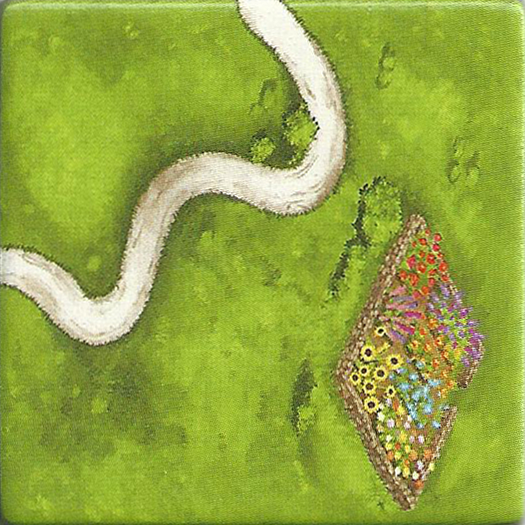
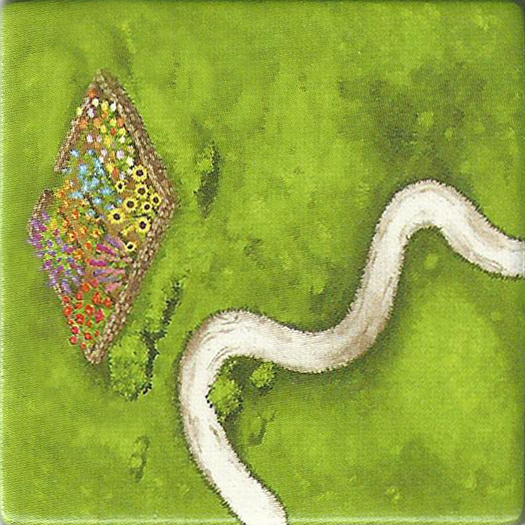
Altered tile images to align gardens

diff --git a/src/TileFactory.java b/src/TileFactory.java
@@ -664,8 +664,8 @@ public class TileFactory {
         try {
             BufferedImage image = ImageIO.read(new File("images/42.png"));
             HashMap<GlobalVariables.Direction, GlobalVariables.Feature> features = new HashMap<GlobalVariables.Direction, GlobalVariables.Feature>();
-            features.put(GlobalVariables.Direction.NORTH, GlobalVariables.Feature.GRASS);
-            features.put(GlobalVariables.Direction.EAST, GlobalVariables.Feature.CITY);
+            features.put(GlobalVariables.Direction.NORTH, GlobalVariables.Feature.CITY);
+            features.put(GlobalVariables.Direction.EAST, GlobalVariables.Feature.GRASS);
             features.put(GlobalVariables.Direction.WEST, GlobalVariables.Feature.GRASS);
             features.put(GlobalVariables.Direction.SOUTH, GlobalVariables.Feature.GRASS);
 
@@ -712,8 +712,8 @@ public class TileFactory {
             BufferedImage image = ImageIO.read(new File("images/45.png"));
             HashMap<GlobalVariables.Direction, GlobalVariables.Feature> features = new HashMap<GlobalVariables.Direction, GlobalVariables.Feature>();
             features.put(GlobalVariables.Direction.NORTH, GlobalVariables.Feature.CITY);
-            features.put(GlobalVariables.Direction.EAST, GlobalVariables.Feature.GRASS);
-            features.put(GlobalVariables.Direction.WEST, GlobalVariables.Feature.CITY);
+            features.put(GlobalVariables.Direction.EAST, GlobalVariables.Feature.CITY);
+            features.put(GlobalVariables.Direction.WEST, GlobalVariables.Feature.GRASS);
             features.put(GlobalVariables.Direction.SOUTH, GlobalVariables.Feature.CITY);
 
             Set<GlobalVariables.Internal> internals = new HashSet<>();
@@ -927,22 +927,6 @@ public class TileFactory {
         }
 
         try {
-            BufferedImage image = ImageIO.read(new File("images/59.jpg"));
-            HashMap<GlobalVariables.Direction, GlobalVariables.Feature> features = new HashMap<GlobalVariables.Direction, GlobalVariables.Feature>();
-            features.put(GlobalVariables.Direction.NORTH, GlobalVariables.Feature.ROAD);
-            features.put(GlobalVariables.Direction.EAST, GlobalVariables.Feature.GRASS);
-            features.put(GlobalVariables.Direction.WEST, GlobalVariables.Feature.GRASS);
-            features.put(GlobalVariables.Direction.SOUTH, GlobalVariables.Feature.ROAD);
-
-            Set<GlobalVariables.Internal> internals = new HashSet<>();
-            internals.add(GlobalVariables.Internal.GARDEN);
-
-            deck.add(new PlayableTile(image, features, internals));
-        } catch (IOException e) {
-            e.printStackTrace();
-        }
-
-        try {
             BufferedImage image = ImageIO.read(new File("images/59.png"));
             HashMap<GlobalVariables.Direction, GlobalVariables.Feature> features = new HashMap<GlobalVariables.Direction, GlobalVariables.Feature>();
             features.put(GlobalVariables.Direction.NORTH, GlobalVariables.Feature.GRASS);
@@ -1120,10 +1104,10 @@ public class TileFactory {
         try {
             BufferedImage image = ImageIO.read(new File("images/70.png"));
             HashMap<GlobalVariables.Direction, GlobalVariables.Feature> features = new HashMap<GlobalVariables.Direction, GlobalVariables.Feature>();
-            features.put(GlobalVariables.Direction.NORTH, GlobalVariables.Feature.ROAD);
-            features.put(GlobalVariables.Direction.EAST, GlobalVariables.Feature.GRASS);
-            features.put(GlobalVariables.Direction.WEST, GlobalVariables.Feature.ROAD);
-            features.put(GlobalVariables.Direction.SOUTH, GlobalVariables.Feature.GRASS);
+            features.put(GlobalVariables.Direction.NORTH, GlobalVariables.Feature.GRASS);
+            features.put(GlobalVariables.Direction.EAST, GlobalVariables.Feature.ROAD);
+            features.put(GlobalVariables.Direction.WEST, GlobalVariables.Feature.GRASS);
+            features.put(GlobalVariables.Direction.SOUTH, GlobalVariables.Feature.ROAD);
 
             Set<GlobalVariables.Internal> internals = new HashSet<>();
             internals.add(GlobalVariables.Internal.GARDEN);
